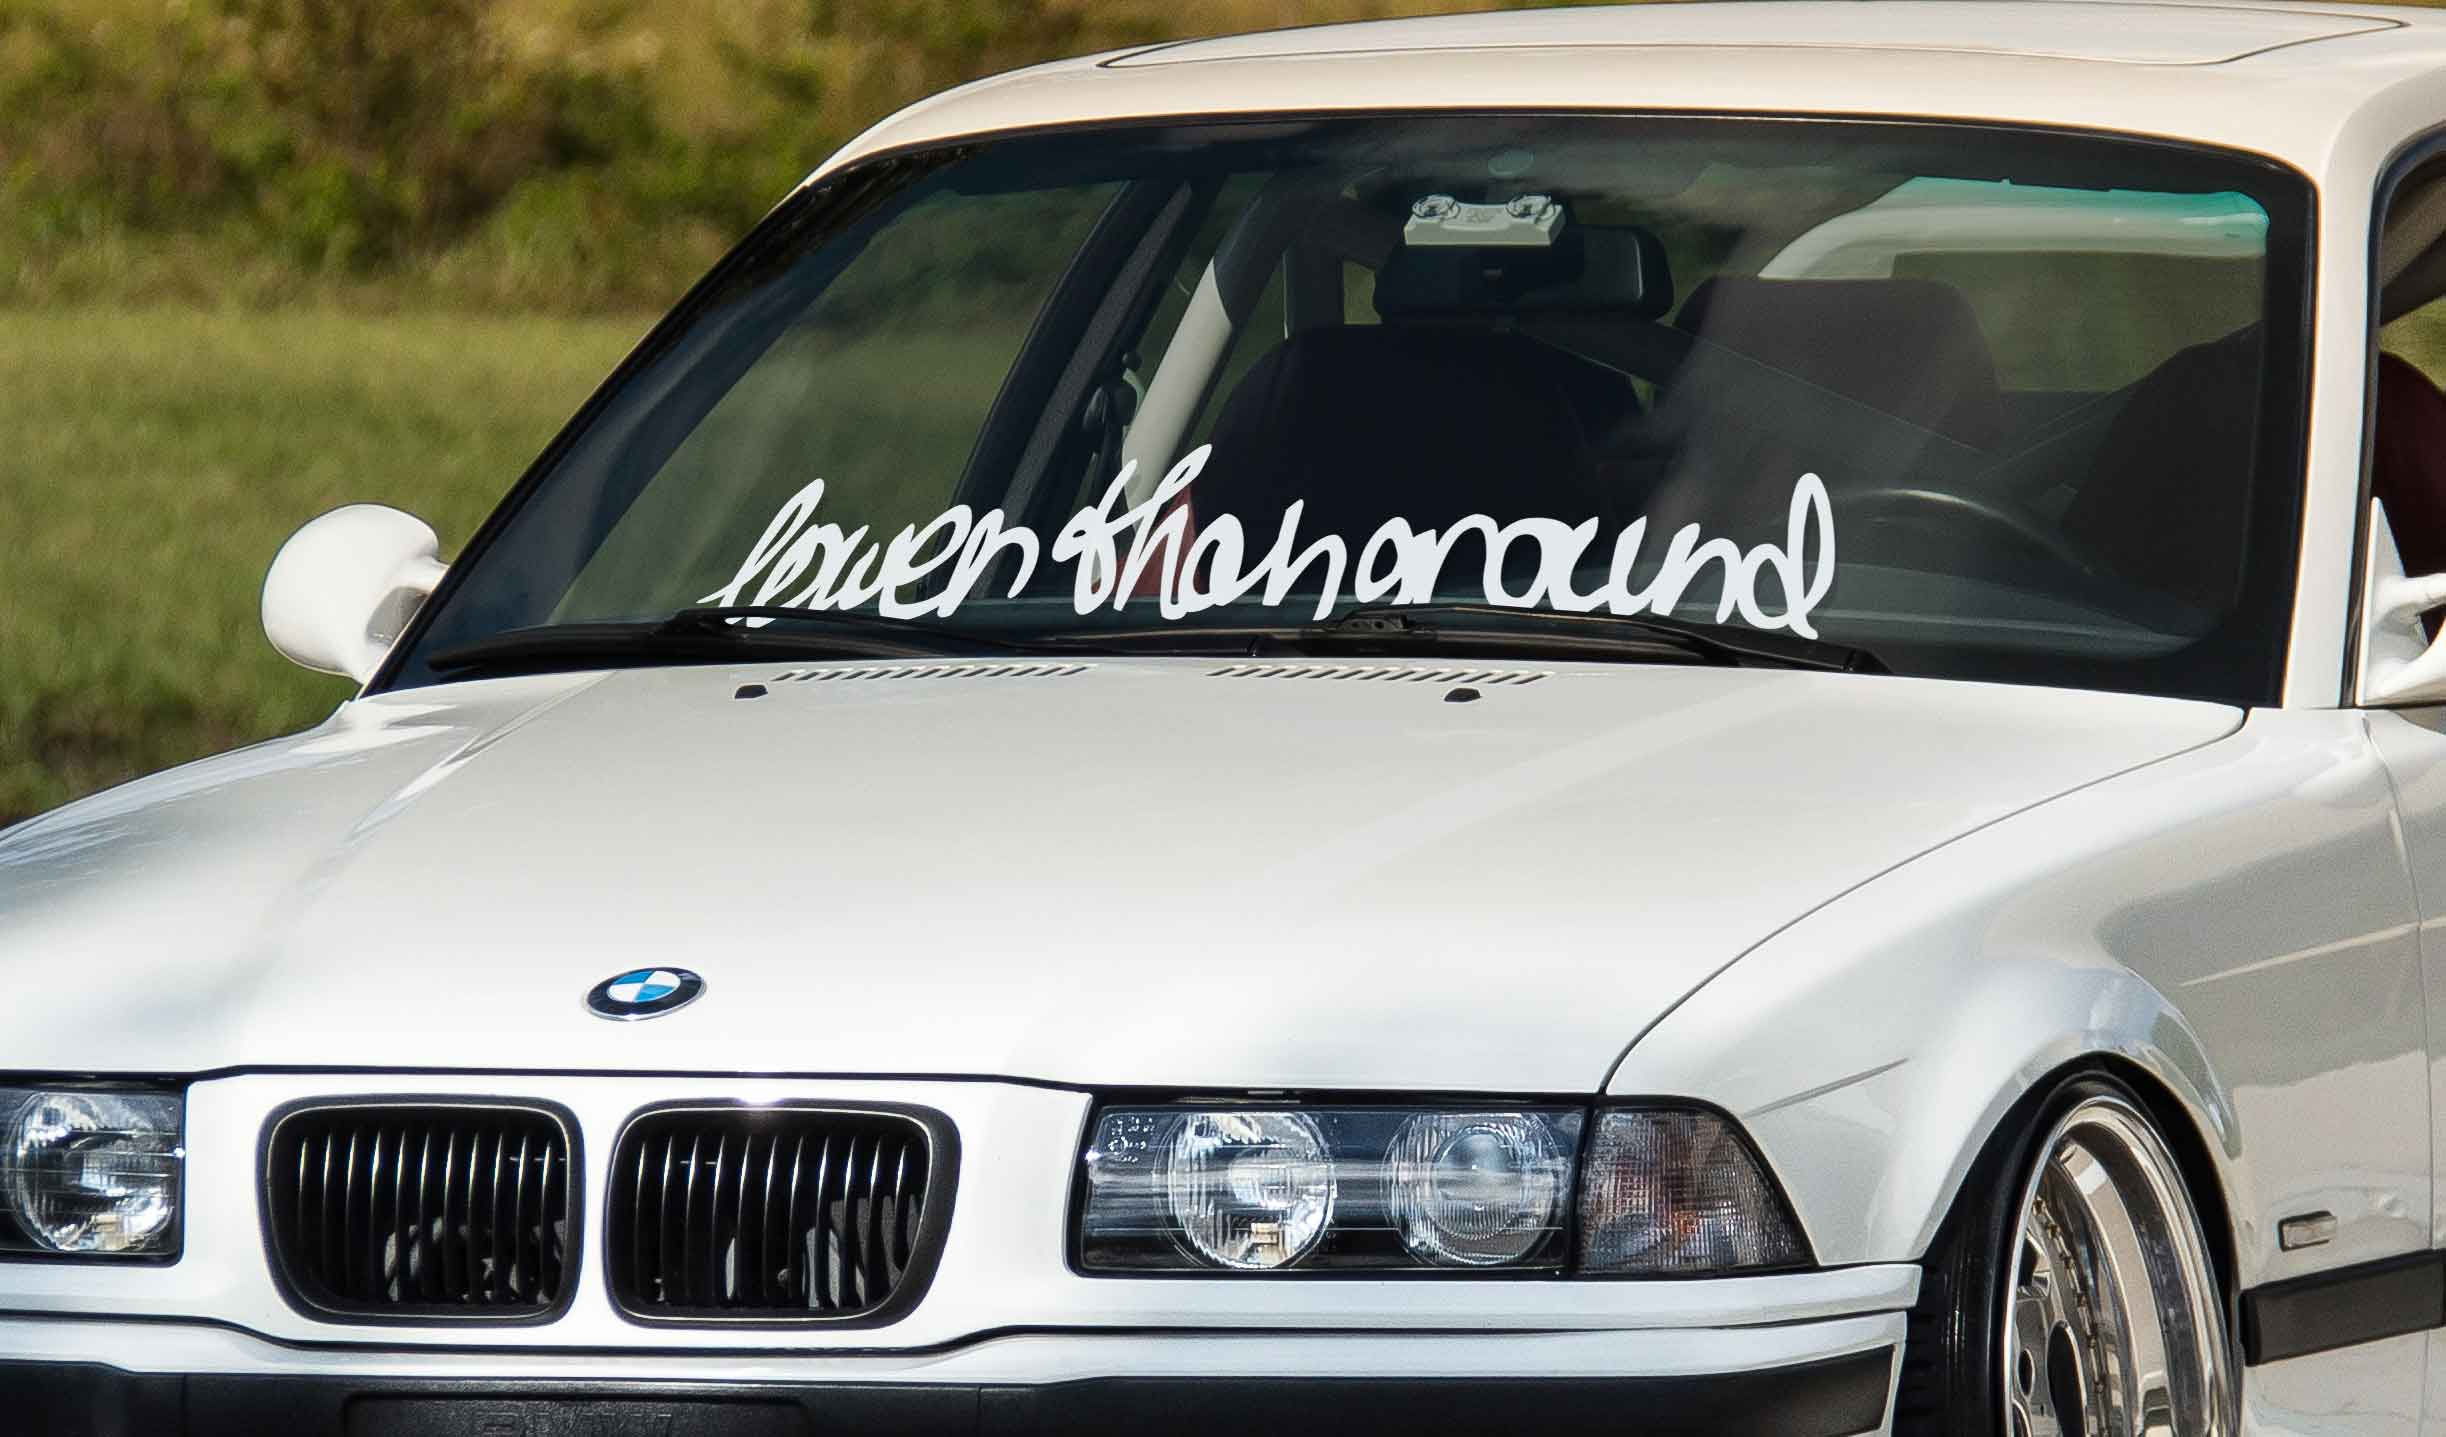
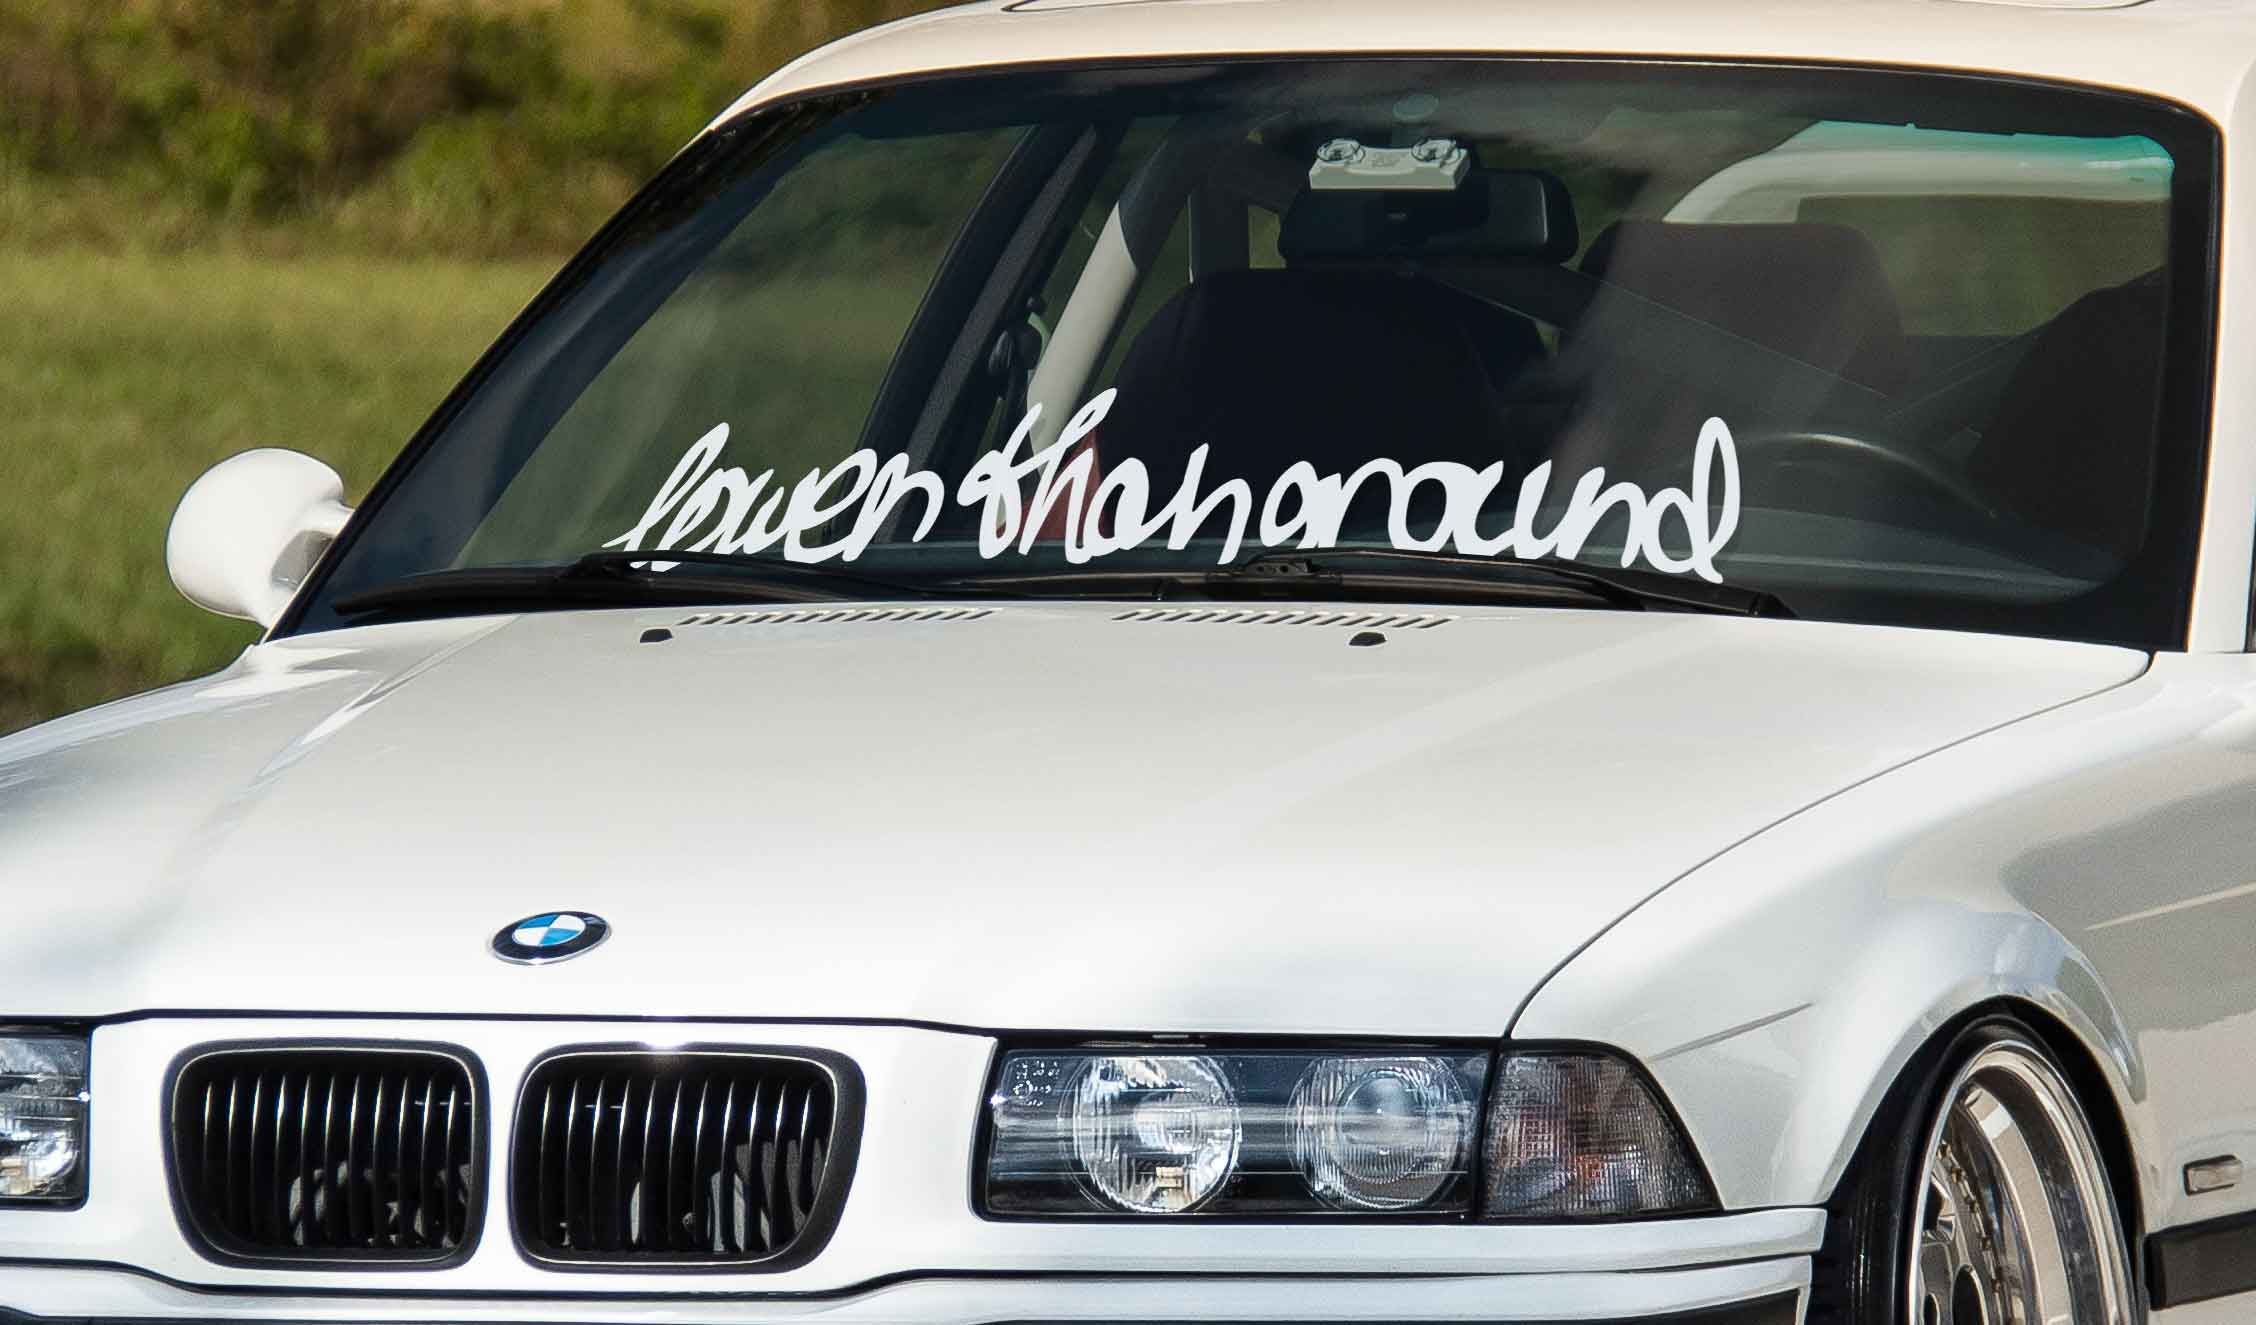
changed custom mileage front image

diff --git a/source/_posts/custom-mileage-sticker.md b/source/_posts/custom-mileage-sticker.md
@@ -20,7 +20,7 @@ col_class: col-lg-4
 Respect the elders. Show them your mileage.
 
 <!-- more -->
-{% asset_img content-image custom-car-mileage-sticker.jpg 'Custom mileage sticker for any car model"Vinyl car sticker with your mileage"' %}
+{% asset_img content-image custom-car-mileage-sticker-black.jpg 'Custom mileage sticker for any car model"Vinyl car sticker with your mileage"' %}
 
 Now this is a cool thing. We all know that older cars were build tough. Back those days when automobile companies did really compete between each other trying to make a better car. That's why they are still on the roads!
 
